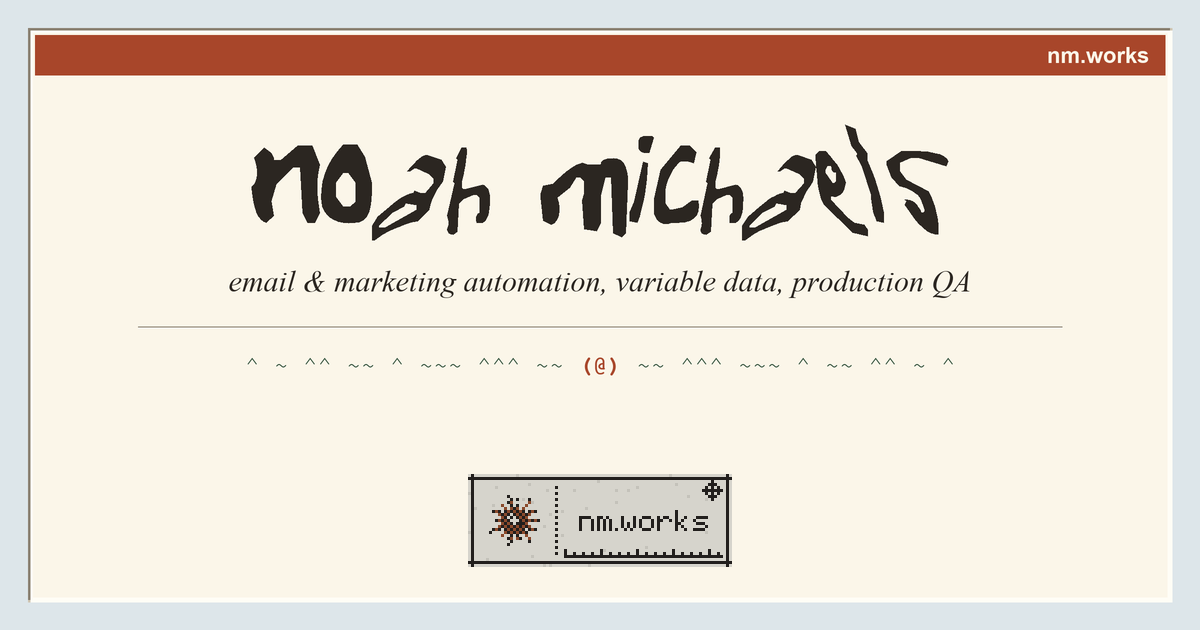
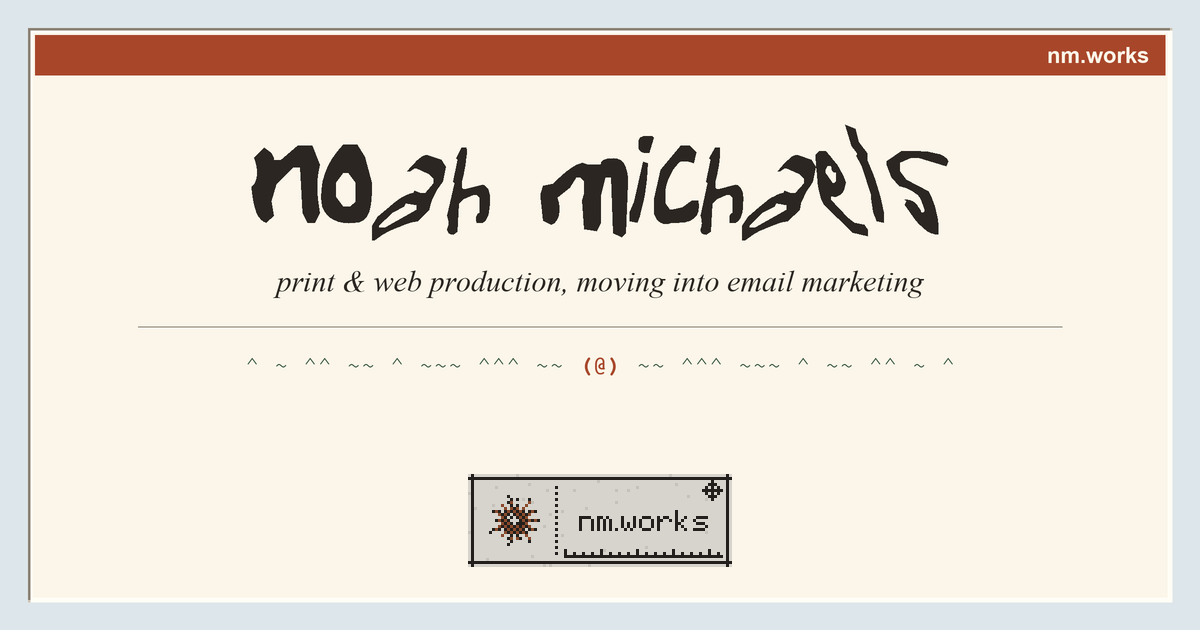
Reframe headline around print and web production and count 7+ years

Changed region(s): [[0.185, 0.4222, 0.8017, 0.4825]]

diff --git a/src/data/site.ts b/src/data/site.ts
@@ -4,9 +4,9 @@ import path from "node:path"
 export const siteName = "Noah Michaels"
 
 export const siteHeadline =
-  "Email & Marketing Automation | Variable Data Personalization, HTML/CSS, Production QA"
+  "Print & Web Production, Moving Into Email Marketing | Variable Data, HTML/CSS, Production QA"
 
-export const defaultTitle = `${siteName} · Email & Marketing Automation`
+export const defaultTitle = `${siteName} · Print & Web Production`
 
 export const defaultDescription =
   "Production and web professional in Raleigh, NC: variable data campaigns, responsive HTML/CSS, and production QA. Pursuing the Salesforce Marketing Cloud Engagement Specialist certification."

diff --git a/scripts/make-og.py b/scripts/make-og.py
@@ -138,7 +138,7 @@ def main():
 
     # Tagline and rule.
     ty = my + mark.height + 22 * SS
-    centered(d, "email & marketing automation, variable data, production QA", ty, font("Times New Roman Italic.ttf", 30), INK)
+    centered(d, "print & web production, moving into email marketing", ty, font("Times New Roman Italic.ttf", 30), INK)
     ry = ty + 62 * SS
     d.line([(x0 + 110 * SS, ry), (x1 - 110 * SS, ry)], fill=STONE, width=SS)
     d.line([(x0 + 110 * SS, ry + SS), (x1 - 110 * SS, ry + SS)], fill=HIGHLIGHT, width=SS)

diff --git a/README.md b/README.md
@@ -1,6 +1,6 @@
 # nm.works
 
-Portfolio site for Noah Michaels, focused on email and marketing automation: variable data personalization, HTML/CSS, and production QA.
+Portfolio site for Noah Michaels: print and web production (variable data personalization, HTML/CSS, and production QA), moving into email marketing.
 
 Built as a static Astro site with TypeScript and Tailwind CSS v4, and deployed on Cloudflare Pages.
 
